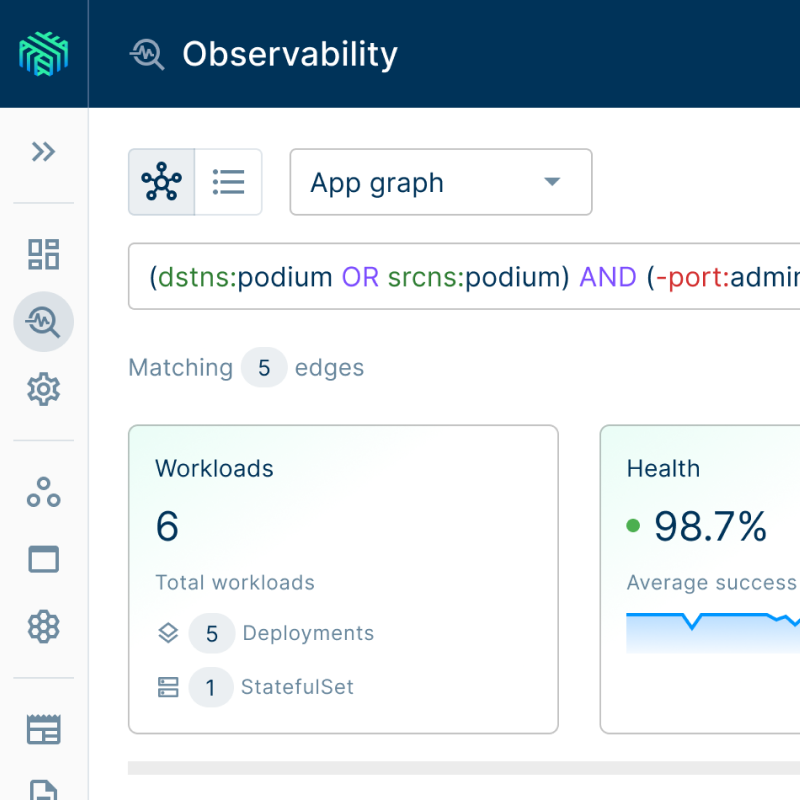
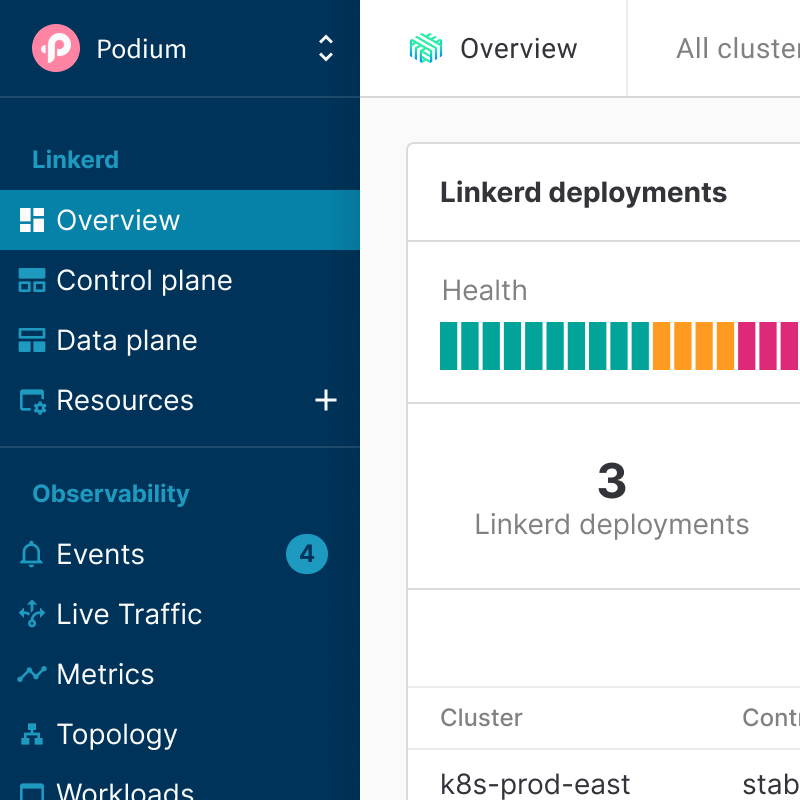
Updated projects

diff --git a/assets/scss/components/_prose.scss b/assets/scss/components/_prose.scss
@@ -37,6 +37,10 @@
   ul {
     list-style-type: square;
     padding-left: abstracts.size(2);
+
+    li {
+      margin-bottom: abstracts.$gap / 2;
+    }
   }
   blockquote {
     padding: abstracts.$gap;
@@ -56,7 +60,7 @@
   }
   a {
     color: abstracts.$magenta;
-    
+
     &:hover {
       text-decoration: underline;
     }

diff --git a/content/projects/buoyant-cloud/index.md b/content/projects/buoyant-cloud/index.md
@@ -1,15 +1,37 @@
 ---
-weight: 1
-title: Buoyant Cloud & the Linkerd Dashboard
-linkTitle: Buoyant Cloud
+weight: 2
+title: Buoyant Cloud
 keywords:
   - UX
   - UI
   - Visual Design
 ---
 
-Over the past several years I've been working on Buoyant Cloud, a SaaS observability tool for Linkerd. More recently, I've shifted focus to bring everything I've learned from Buoyant Cloud into the Kubernetes cluster through an on-premises Linkerd dashboard.
+![Image 1](images/01.png)
 
-Stay tuned for more details!
+{{< blurb >}}
+Since 2019, I have led the end-to-end UX, UI, and system design for Buoyant Cloud, a multi-cluster observability, monitoring, and alerting platform built for Buoyant Enterprise for Linkerd (BEL).
 
-![Dashboard](images/01.png)
+Tasked with turning complex Kubernetes data into an intuitive enterprise platform, I designed an interface that allows infrastructure teams to quickly identify critical issues in their clusters. The core design challenge centered around data density and cognitive load: parsing a massive amount of "golden metrics" into clear, actionable insights.
+
+One of the highlights of the platform is an interactive and filterable network topology graph, built dynamically from live traffic data. This enables engineers to quickly identify network requests that are failing and correlate metrics from clients and dependencies.
+
+Some other highlights include:
+
+- **Cluster health monitoring:** Aggregated views that provide insight into Linkerd's control plane and data plane status, trust anchor rotation, and health metrics.
+- **Event timeline:** Proactive event timelines correlating metrics, deployment rollouts, and authorization policy statuses.
+- **Configurable alerts:** Streamlined configuration that help teams wire up Slack, DataDog, and PagerDuty alerting in minutes.
+
+{{< /blurb >}}
+
+{{< grid "2col" >}}
+![Image 2](images/02.png)
+
+![Image 3](images/03.png)
+{{< /grid >}}
+
+{{< grid "2col" >}}
+![Image 4](images/04.png)
+
+![Image 5](images/05.png)
+{{< /grid >}}

diff --git a/content/projects/minted-wedding-websites/index.md b/content/projects/minted-wedding-websites/index.md
@@ -1,5 +1,5 @@
 ---
-weight: 4
+weight: 5
 title: Minted Wedding Websites
 keywords:
   - UX
@@ -38,23 +38,13 @@ Just a few of the thousands of wedding website designs built using Minted ThemeB
 {{< /caption >}}
 
 {{< blurb >}}
-### My Role
 
-- Co-Managed product strategy and led roadmap planning
-- Became the voice of the customer through user research
-- Delivered visual user flows, wireframes, prototypes, interaction design, and visual design
+While at Minted, my responsibilities included co-managing product strategy and led roadmap planning, became the voice of the customer through user research, and delivered visual user flows, wireframes, prototypes, interaction design, and visual design.
 
-### Top User Goals
+As voice of the customer for Minted Wedding Websites, I strived to provide a fun and intuitive experience that customers love to use, hiding complexity in simplicity, with the goal of creating the easiest and most powerful guest management and RSVP platform.
 
-- Provide a fun and intuitive experience that customers love to use
-- Hide complexity in simplicity
-- Create the easiest and most powerful guest management and RSVP platform
+From a business perspective, I focused on optimizing the experience to convert traffic to active users, introduced users to relevant stationery products, and incentivize users to upgrade through the various plan tiers.
 
-### Top Business Goals
-
-- Conversion of traffic to active users
-- Conversion of users to stationery purchases
-- Conversion of users to premium tier
 {{< /blurb >}}
 
 ![Image 7](images/07.jpg)

diff --git a/content/projects/linkerd-dashboard/index.md b/content/projects/linkerd-dashboard/index.md
@@ -1,0 +1,14 @@
+---
+weight: 1
+title: Linkerd Dashboard
+keywords:
+  - UX
+  - UI
+  - Visual Design
+---
+
+Over the past several years I've been working on [Buoyant Cloud](./buoyant-cloud/), a SaaS observability tool for Linkerd. More recently, I've shifted focus to bring everything I've learned from Buoyant Cloud into the Kubernetes cluster through an on-premises Linkerd dashboard.
+
+Stay tuned for more details!
+
+![Dashboard](images/01.png)

diff --git a/content/projects/minted-component-library/index.md b/content/projects/minted-component-library/index.md
@@ -1,5 +1,5 @@
 ---
-weight: 3
+weight: 4
 title: Minted Component Library
 keywords:
   - UX

diff --git a/content/projects/minted-guest-management/index.md b/content/projects/minted-guest-management/index.md
@@ -1,5 +1,5 @@
 ---
-weight: 2
+weight: 3
 title: Minted Guest Management
 keywords:
   - UX